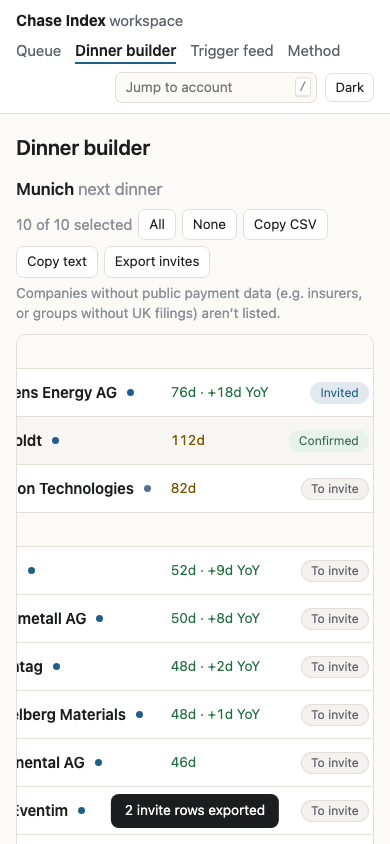
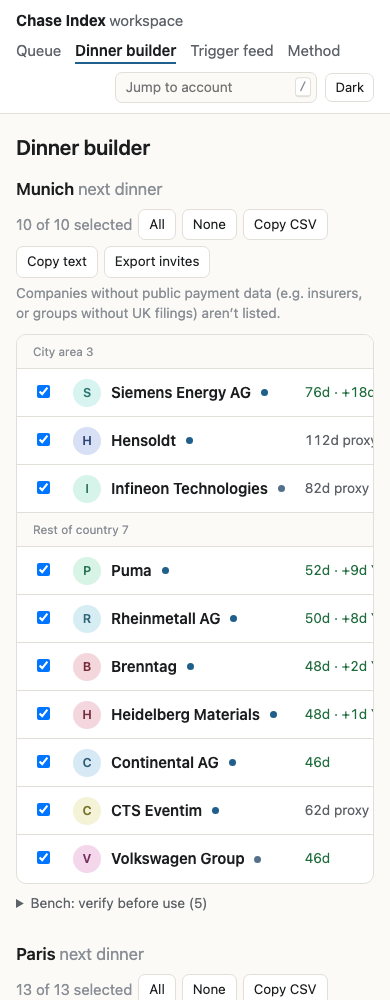
Workspace: sparkline inside the panel, proxy label on dinner rows, standing facts heading
- Sparkline drawn with an inset so its end dot and stroke stay inside the
  panel padding (clipped, max 45% of the row).
- Dinner builder: a computed DPO reads "112d proxy" in muted grey.
- Account page: "Standing facts" once as a subheading instead of a
  "standing" label on every line.

diff --git a/workspace/static/style.css b/workspace/static/style.css
@@ -115,7 +115,7 @@ select{max-width:100%}.filters label{max-width:100%}
 .p-num{font-size:1.8rem;font-variant-numeric:tabular-nums;color:var(--fg)}.p-num.rep{color:var(--rep)}.p-num.prx{color:var(--prx)}
 .p-dl{display:grid;grid-template-columns:6rem 1fr;gap:8px 14px;margin:0;font-size:.88rem}.p-dl dt{color:var(--faint)}.p-dl dd{margin:0}
 .opener{margin:0 0 10px;font-size:.9rem;border-left:0;border-radius:8px;padding:12px 14px}
-.spark{overflow:visible;flex:none}
+.spark{overflow:hidden;flex:none;max-width:45%;height:auto}.p-key .spark{margin-right:2px}
 .spark polyline{fill:none;stroke:currentColor;stroke-width:1.6;stroke-linejoin:round;stroke-linecap:round}.spark circle{fill:currentColor}
 .spark .bench{stroke:var(--faint);stroke-width:1;stroke-dasharray:2 2}
 .p-key{color:var(--rep)}.p-key .muted{font-size:.86rem}
@@ -195,7 +195,7 @@ table.ents td{vertical-align:middle;font-size:.88rem}table.ents td.num{font-vari
 .acct details.sec[open]>summary{margin-bottom:12px}
 .li{white-space:nowrap}
 /* dinner columns */
-td.d-why .days{font-size:.86rem;white-space:nowrap}td.d-why .days.rep{color:var(--rep)}td.d-why .days.prx{color:var(--prx)}
+td.d-why .days{font-size:.86rem;white-space:nowrap}td.d-why .days.rep{color:var(--rep)}td.d-why .days.prx{color:var(--muted)}
 td.d-role{white-space:nowrap}.dnote{margin:-4px 0 10px}
 /* grouped mandate rows */
 details.tgrp{border-top:1px solid var(--line)}.list details.tgrp:first-child{border-top:0}
@@ -212,3 +212,4 @@ details.tgrp[open]>summary .t-line b::before{transform:rotate(90deg)}
 .dd .dd-m{color:var(--faint);font-size:.78rem;white-space:nowrap}.dd li.none{color:var(--faint);cursor:default}
 @media (max-width:760px){td.d-role,td.d-city{display:none}.tg-list{padding-left:16px}.acct .p-dl{grid-template-columns:6.5rem 1fr}
  .w-date{width:4.6rem}.acct .p-head{flex-wrap:wrap}.dd{right:auto;width:calc(100vw - 32px)}}
+.subh{margin:14px 0 4px;font-size:.74rem;font-weight:400;color:var(--faint);text-transform:uppercase;letter-spacing:.05em}

diff --git a/workspace/build.py b/workspace/build.py
@@ -191,8 +191,9 @@ def sparkline(pts: list[tuple[str, float]], what: str, bench: int | None, w: int
     vals = [v for _, v in pts]
     lo, hi = min(vals + ([bench] if bench else [])), max(vals + ([bench] if bench else []))
     span = (hi - lo) or 1
-    x = lambda i: 2 + i * (w - 4) / (len(pts) - 1)
-    y = lambda v: h - 2 - (v - lo) * (h - 4) / span
+    pad = 4   # room for the end dot (r=2) and the stroke, so nothing is drawn on the edge
+    x = lambda i: pad + i * (w - 2 * pad) / (len(pts) - 1)
+    y = lambda v: h - pad - (v - lo) * (h - 2 * pad) / span
     line = " ".join(f"{x(i):.1f},{y(v):.1f}" for i, v in enumerate(vals))
     ref = (f'<line class="bench" x1="0" x2="{w}" y1="{y(bench):.1f}" y2="{y(bench):.1f}"/>' if bench else "")
     label = "; ".join(f"{p} {v:.0f}d" for p, v in pts)
@@ -501,9 +502,11 @@ def build_account(w: dict, public_keys: set, in_queue: bool) -> str:
         what, chg = trigger_line(t)
         lines.append(f'<li title="{E(t["text"])}"><span class="w-date">{E(str(t.get("trigger_date"))[:10])}</span><span class="w-what">{E(what)}</span>'
                      f'<span class="sep">·</span><span class="w-chg">{E(chg)}</span>{icon_link(t.get("evidence_url"))}</li>')
-    for x in b.get("why_now_signals") or []:
-        lines.append(f'<li><span class="w-date faint">standing</span><span class="w-chg">{E(clean(x.get("text") or ""))}</span>{icon_link(x.get("url"))}</li>')
-    parts.append(section("Why now", f'<ul class="why">{"".join(lines)}</ul>' if lines else '<p class="faint">No public dated trigger.</p>'))
+    facts = [f'<li><span class="w-chg">{E(clean(x.get("text") or ""))}</span>{icon_link(x.get("url"))}</li>' for x in b.get("why_now_signals") or []]
+    inner = (f'<ul class="why">{"".join(lines)}</ul>' if lines else '<p class="faint">No public dated trigger.</p>')
+    if facts:
+        inner += f'<h4 class="subh">Standing facts</h4><ul class="why">{"".join(facts)}</ul>'
+    parts.append(section("Why now", inner))
 
     # opener and who
     nba = w.get("next_best_action") or {}
@@ -591,7 +594,10 @@ def build_dinners(dinners: list[dict], public: list[dict] | None = None) -> str:
         def row(a):
             kn, kvs, kcls, _ = key_number(a["company_id"])
             pv = why_pill({"company_id": a["company_id"]}, live_by_type(a["company_id"], public))
-            reason = f"{kn} \u00b7 {pv}" if pv and not pv.startswith(("SCF ", "Terms")) else (pv or kn)
+            if kcls == "prx":                              # a computed DPO is a proxy, said so in the row
+                reason = f"{kn} proxy" + (f" \u00b7 {pv}" if pv else "")
+            else:
+                reason = f"{kn} \u00b7 {pv}" if pv and not pv.startswith(("SCF ", "Terms")) else (pv or kn)
             sf = q.get_account_brief(a["company_id"]).get("supplier_finance") or {}
             role = nba_mod.suggested_role(q._row(a["company_id"]), None, sf_angle=bool(sf.get("programme_disclosed") and sf.get("confirmed")))[0]
             return f"""<tr data-row data-frow tabindex="0" data-cid="{E(a['company_id'])}" data-company="{E(a['company'])}" data-hook="{E(a['hook'])}" data-source="{E(a.get('source_url') or '')}"
@@ -599,7 +605,7 @@ data-tier="{a['tier']}" data-hq="{E(a.get('hq_city') or '')}" data-local="{E(a['
 <td class="d-chk"><input type="checkbox" checked aria-label="Include {E(a['company'])}"></td>
 <td class="d-co"><span class="co-n">{avatar(a['company'])}<b>{E(a['company'])}</b>{tier_dot(a['tier'])}</span></td>
 <td class="d-city sub">{E(a.get('hq_city') or 'HQ unknown')}</td>
-<td class="d-why"><span class="days {kcls}" title="{E(kn + ' ' + kvs)}">{E(reason)}</span></td>
+<td class="d-why"><span class="days {kcls}" title="{E(kn + ' ' + kvs + (' (computed DPO, a balance-sheet proxy)' if kcls == 'prx' else ''))}">{E(reason)}</span></td>
 <td class="d-role sub" title="{E(role)}">{E(INVITE_ROLE.get(role, role))}</td>
 <td class="d-pill"><button type="button" class="ipill" data-inv="" title="Click to change invite status">To invite</button></td>
 <template class="detail"><header class="p-head">{avatar(a['company'])}<div><h2>{E(a['company'])} {tier_badge(a['tier'])}</h2>

diff --git a/tests/test_workspace.py b/tests/test_workspace.py
@@ -207,7 +207,11 @@ def test_dinner_rows_reason_role_note_and_linkedin_links():
     d = (DIST / "dinners.html").read_text()
     assert d.count("aren\u2019t listed.") == d.count('class="dinner"') > 0
     reasons = re.findall(r'class="d-why"><span class="days \w+"[^>]*>([^<]+)</span>', d)
-    assert reasons and all(re.match(r"(\d+d( \u00b7 .+)?|SCF .+|Terms .+)$", r) for r in reasons), reasons[:5]
+    assert reasons and all(re.match(r"(\d+d( proxy)?( \u00b7 .+)?|SCF .+|Terms .+)$", r) for r in reasons), reasons[:5]
+    for cls, r in re.findall(r'class="d-why"><span class="days (\w+)"[^>]*>([^<]+)</span>', d):
+        assert (cls == "prx") == (" proxy" in r), r          # a computed DPO says "proxy" in the row
+    a = (DIST / "accounts" / "reckitt-benckiser-group-plc-lei48v108.html").read_text()
+    assert a.count("Standing facts") == 1 and ">standing<" not in a
     roles = re.findall(r'class="d-role sub"[^>]*>([^<]+)<', d)
     assert roles and set(roles) <= {"CFO / Treasurer", "CFO", "CFO / Head of AP"}
     for page in ("index.html", "dinners.html"):
